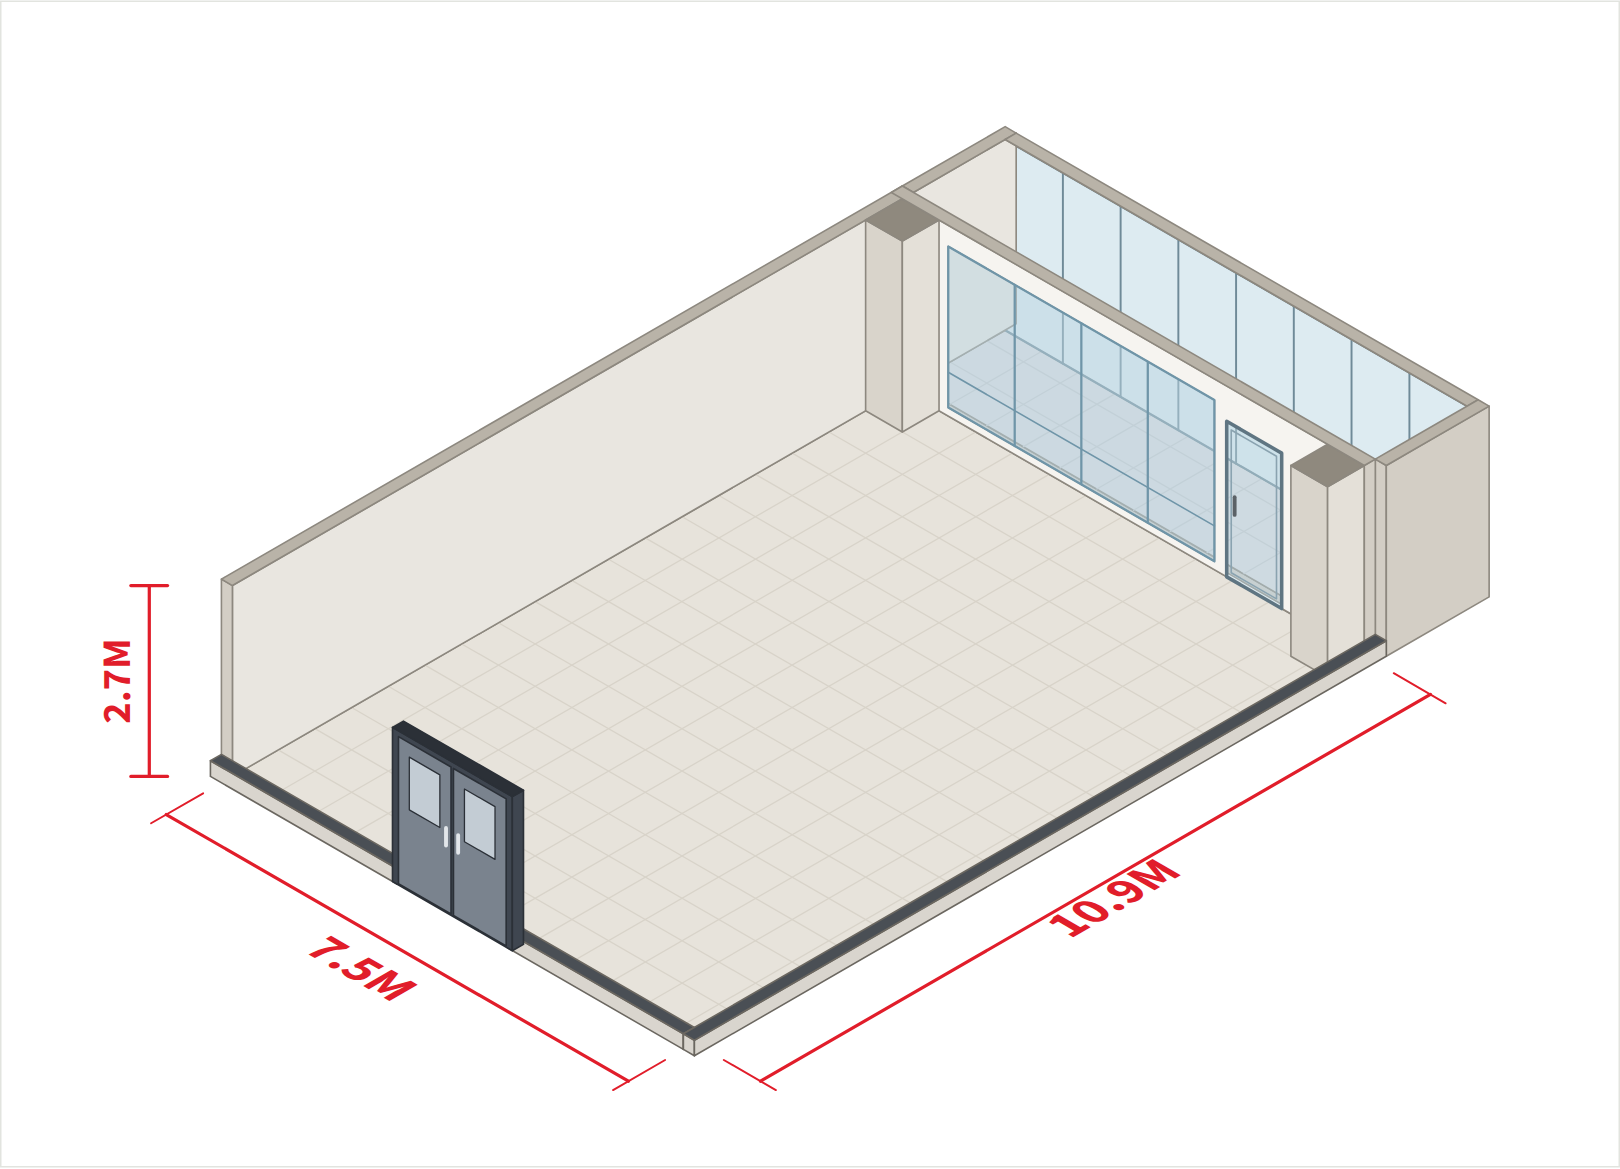
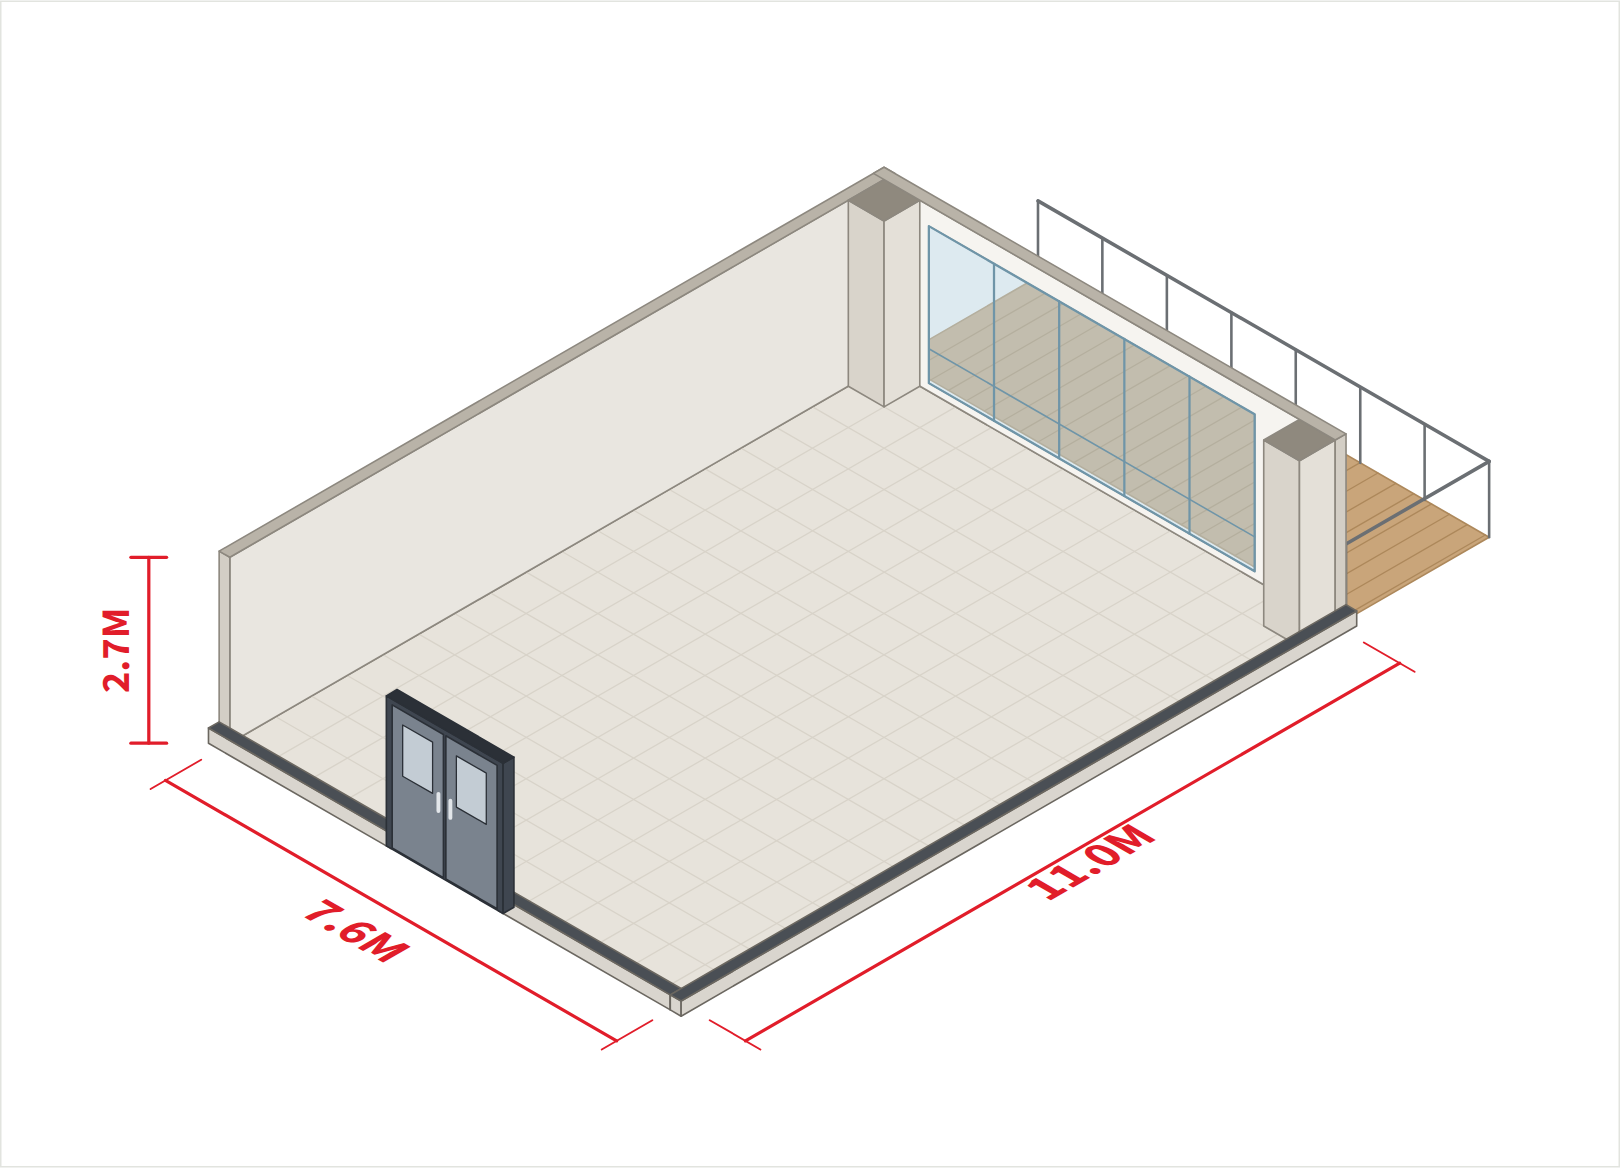
KB1630 14.48평, 1층 F호실 높이 4.0M, KB1135 테라스, C호실 20실 추가, 1층 코너 번호 수정
Claude-Session: https://claude.ai/code/session_01TwCdqJrCBUBdWHc4DCHrCc

diff --git a/desian-3d/index.html b/desian-3d/index.html
@@ -214,19 +214,20 @@ const UNITS = [
     note: "층고 약 3M(FB102 2.94m · FB103 2.99m) · 출입문 2.10×2.12m · 따로/합쳐서 가능" },
   { id: "KA1906", area: 39.56, dir: "남동향 코너", corner: ["남", "동"], sink: null, blind: null },
   { id: "KB1710", area: 10.67, dir: "서향",  sink: null, blind: null },
-  { id: "KB1630", area: 13.97, dir: "남향",  sink: null, blind: null },
+  { id: "KB1630", area: 14.48, dir: "남향",  sink: null, blind: null },
   { id: "FB111", height: 3.0,  area: 18.75, dir: null,    sink: null, blind: null, drive: true },
   { id: "KB611",  area: 18.62, dir: "동향",  sink: null, blind: null },
-  { id: "KB1135", area: 25,    dir: null,    sink: null, blind: null },
+  { id: "KB1135", area: 25.1, terrace: true,    dir: null,    sink: null, blind: null },
 ];
 
 const M2_PER_PY = 3.305785;
 
-/* 층별 천장 높이 (사용자 제공): 지하1·2층 3.0M, 2~5층 3.9M, 6~20층 2.7M */
+/* 층별 천장 높이 (사용자 제공): 지하1·2층 3.0M, 1층 F호실 4.0M, 2~5층 3.9M, 6~20층 2.7M */
 function floorHeight(id) {
-  const m = id.match(/^(KA|KB|FB|F)(\d+)/);
+  const m = id.match(/^(KA|KB|FB|F|C)(\d+)/);
   if (m[1] === "FB") return 3.0;
   const fl = parseInt(m[2].slice(0, -2), 10);
+  if (fl === 1) return 4.0;
   return fl <= 5 ? 3.9 : 2.7;
 }
 
